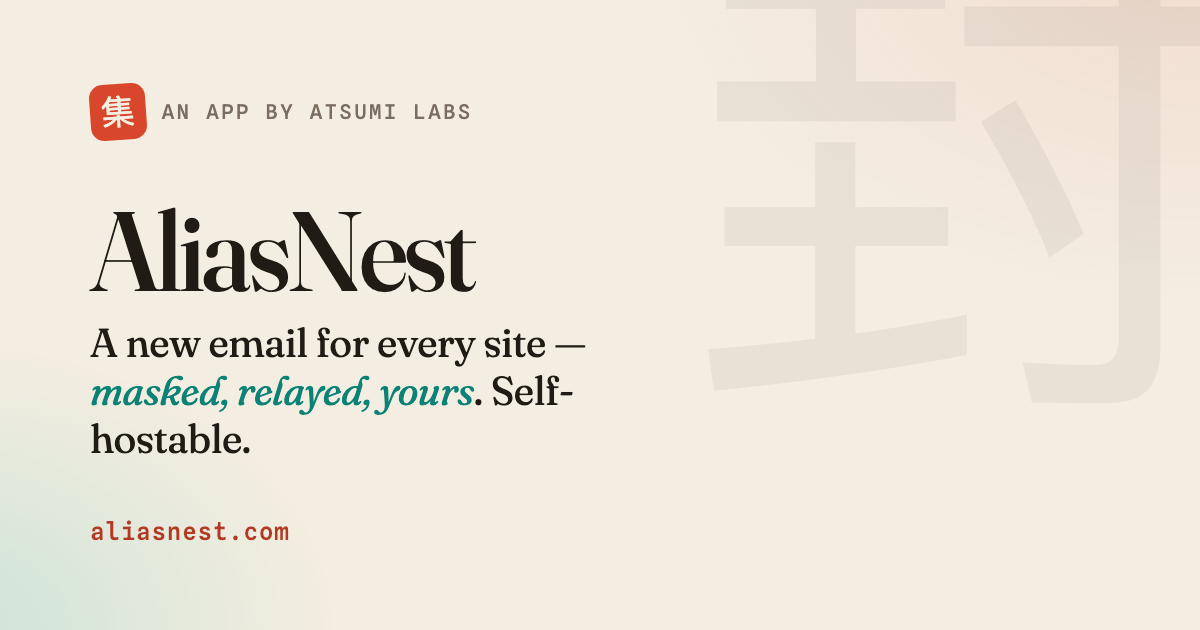
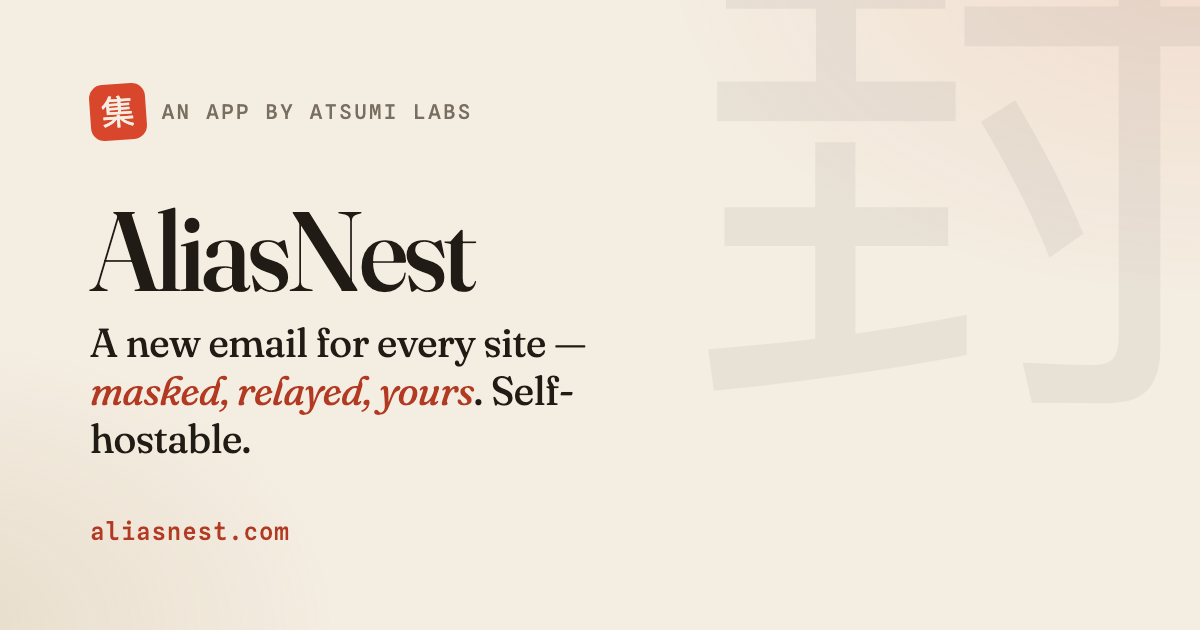
AliasNest: use the real interface mockup + retheme to washi/vermillion
Swap fabricated dark dashboard for the authentic inbox preview from the
AliasNest brand proposal (shown as a clean screenshot card — it carries its
own browser chrome). Retheme accent teal->vermillion, 'how it works' band to
warm sumi, refreshed OG image; step 3 reflects the in-app color-tagged inbox.

Changed region(s): [[0.0617, 0.6032, 0.4008, 0.6635]]

diff --git a/aliasnest.css b/aliasnest.css
@@ -1,8 +1,8 @@
 /* ============================================================
    AliasNest showcase — access-controlled web app (static preview).
-   Atsumi paper theme (inherits styles.css vars); teal accent.
+   Atsumi paper theme; vermillion/washi accent to match AliasNest's
+   own brand. The framed screenshot already carries its browser chrome.
    ============================================================ */
-:root { --an: #0c8276; --an-bright: #14b8a6; --an-soft: rgba(20, 184, 166, 0.12); }
 
 /* ── hero (centered) ── */
 .an-hero { max-width: 1080px; margin: 0 auto; text-align: center; padding: clamp(3rem, 9vh, 6rem) clamp(1.2rem, 5vw, 3rem) clamp(1.5rem, 4vh, 2.5rem); }
@@ -10,7 +10,7 @@
 .an-crumb:hover { color: var(--shu-deep); border-color: var(--shu-deep); }
 .an-hero h1 { font-family: var(--serif); font-weight: 500; font-size: clamp(2.6rem, 7vw, 5rem); line-height: 1; letter-spacing: -0.03em; margin: 0.6rem 0 0.8rem; }
 .an-tagline { font-family: var(--serif); font-weight: 400; font-size: clamp(1.3rem, 2.6vw, 1.9rem); line-height: 1.25; letter-spacing: -0.01em; color: var(--ink); max-width: 25ch; margin: 0 auto 1.1rem; }
-.an-accent { color: var(--an); font-style: italic; }
+.an-accent { color: var(--shu); font-style: italic; }
 .an-lede { color: var(--ink-2); font-size: clamp(1rem, 1.5vw, 1.12rem); max-width: 58ch; margin: 0 auto; }
 .an-cta { margin: 1.8rem 0 0.4rem; display: flex; flex-wrap: wrap; justify-content: center; align-items: center; gap: 0.9rem; }
 .badge-beta {
@@ -20,47 +20,41 @@
 .badge-beta::before { content: ""; width: 8px; height: 8px; border-radius: 50%; background: var(--shu); }
 .an-hero-chips { justify-content: center; margin: 1.4rem auto 0; }
 
-/* ── browser window frame (static — no live embed) ── */
-.an-browser-wrap { position: relative; max-width: 1040px; margin: 0 auto; padding: 0 clamp(1.2rem, 5vw, 3rem); }
-.an-glow { position: absolute; z-index: 0; left: 50%; top: 30%; transform: translateX(-50%); width: 70%; height: 60%; background: radial-gradient(closest-side, rgba(20,184,166,0.20), transparent 70%); filter: blur(28px); pointer-events: none; }
-.an-browser {
-  position: relative; z-index: 1; border-radius: 14px; overflow: hidden; border: 1px solid var(--line);
-  background: #0a0f12; box-shadow: 0 40px 90px -38px rgba(33,27,22,0.55), 0 10px 26px -18px rgba(33,27,22,0.4);
-  transform: translateZ(0); isolation: isolate; transition: transform 0.4s cubic-bezier(.2,.7,.3,1), box-shadow 0.4s ease;
+/* ── framed screenshot (static; the image carries its own browser chrome) ── */
+.an-shot-wrap { position: relative; max-width: 1040px; margin: 0 auto; padding: 0 clamp(1.2rem, 5vw, 3rem); }
+.an-glow { position: absolute; z-index: 0; left: 50%; top: 28%; transform: translateX(-50%); width: 72%; height: 60%; background: radial-gradient(closest-side, rgba(216,71,43,0.14), transparent 70%); filter: blur(30px); pointer-events: none; }
+.an-shot {
+  position: relative; z-index: 1; border-radius: 16px; overflow: hidden; border: 1px solid var(--line);
+  box-shadow: 0 40px 90px -40px rgba(33,27,22,0.5), 0 10px 26px -18px rgba(33,27,22,0.35);
+  transition: transform 0.4s cubic-bezier(.2,.7,.3,1), box-shadow 0.4s ease;
 }
-.an-browser:hover { transform: translateY(-4px); box-shadow: 0 50px 100px -38px rgba(33,27,22,0.6); }
-.an-bar { height: 44px; display: flex; align-items: center; gap: 12px; padding: 0 16px; background: #070b0d; border-bottom: 1px solid rgba(230,240,238,0.08); }
-.an-dots { display: flex; gap: 8px; }
-.an-dots i { width: 12px; height: 12px; border-radius: 50%; display: block; }
-.an-dots i:nth-child(1) { background: #ff5f57; } .an-dots i:nth-child(2) { background: #febc2e; } .an-dots i:nth-child(3) { background: #28c840; }
-.an-addr { flex: 1; max-width: 440px; margin: 0 auto; text-align: center; background: rgba(230,240,238,0.06); border-radius: 7px; padding: 6px 14px; font-family: var(--mono); font-size: 0.78rem; color: #8fb1ab; }
-.an-screen { position: relative; aspect-ratio: 16 / 10; background: #0a0f12; overflow: hidden; }
-.an-poster { width: 100%; height: 100%; object-fit: cover; object-position: top center; display: block; }
+.an-shot:hover { transform: translateY(-4px); box-shadow: 0 52px 100px -40px rgba(33,27,22,0.55); }
+.an-poster { display: block; width: 100%; height: auto; }
 .lock-pill {
-  position: absolute; top: 12px; right: 12px; z-index: 4; display: inline-flex; align-items: center; gap: 0.4rem;
+  position: absolute; top: 16px; right: 16px; z-index: 4; display: inline-flex; align-items: center; gap: 0.4rem;
   font-family: var(--mono); font-size: 0.62rem; letter-spacing: 0.1em; text-transform: uppercase;
-  color: #cfe6e1; background: rgba(10,15,18,0.6); backdrop-filter: blur(6px); border: 1px solid rgba(255,255,255,0.16); border-radius: 999px; padding: 0.25rem 0.6rem;
+  color: var(--ink-2); background: rgba(244,237,225,0.82); backdrop-filter: blur(6px); border: 1px solid var(--line); border-radius: 999px; padding: 0.28rem 0.62rem;
 }
 .an-poster-cap { text-align: center; font-family: var(--mono); font-size: 0.74rem; color: var(--ink-3); margin-top: 0.9rem; }
 
-/* ── how it works (dark teal band) ── */
+/* ── how it works (dark sumi band, vermillion accents) ── */
 .an-how { max-width: var(--maxw); margin: clamp(2.5rem, 7vh, 5rem) auto; padding: 0 clamp(1.2rem, 5vw, 3rem); }
 .an-how-inner {
   position: relative; overflow: hidden;
-  background: radial-gradient(120% 120% at 0% 0%, rgba(20,184,166,0.22), transparent 55%), radial-gradient(90% 90% at 100% 100%, rgba(216,71,43,0.12), transparent 60%), #0a0f12;
-  color: #e6f0ee; border-radius: 26px; padding: clamp(2rem, 5vw, 3.4rem); box-shadow: 0 30px 70px -34px rgba(10,15,18,0.7);
+  background: radial-gradient(120% 120% at 0% 0%, rgba(216,71,43,0.20), transparent 55%), radial-gradient(90% 90% at 100% 100%, rgba(150,120,70,0.14), transparent 60%), #1b1613;
+  color: #f1e9dd; border-radius: 26px; padding: clamp(2rem, 5vw, 3.4rem); box-shadow: 0 30px 70px -34px rgba(27,22,19,0.7);
 }
-.an-how-eyebrow { font-family: var(--mono); font-size: 0.78rem; letter-spacing: 0.16em; text-transform: uppercase; color: #5ed6c7; }
+.an-how-eyebrow { font-family: var(--mono); font-size: 0.78rem; letter-spacing: 0.16em; text-transform: uppercase; color: #ff9a7a; }
 .an-how h2 { font-family: var(--serif); font-weight: 500; color: #fff; font-size: clamp(1.8rem, 4vw, 2.7rem); line-height: 1.04; letter-spacing: -0.02em; margin: 0.5rem 0 2rem; }
 .an-steps { display: grid; grid-template-columns: repeat(4, 1fr); gap: 1.4rem; }
-.an-step .n { display: inline-grid; place-items: center; width: 2rem; height: 2rem; border-radius: 8px; background: var(--an-soft); color: #5ed6c7; font-family: var(--mono); font-size: 0.85rem; margin-bottom: 0.7rem; }
+.an-step .n { display: inline-grid; place-items: center; width: 2rem; height: 2rem; border-radius: 8px; background: rgba(216,71,43,0.18); color: #ff9a7a; font-family: var(--mono); font-size: 0.85rem; margin-bottom: 0.7rem; }
 .an-step h3 { font-family: var(--serif); font-weight: 600; color: #fff; font-size: 1.12rem; margin-bottom: 0.25rem; }
-.an-step p { color: rgba(230,240,238,0.68); font-size: 0.9rem; }
+.an-step p { color: rgba(241,233,221,0.68); font-size: 0.9rem; }
 
 /* ── on-prem callout ── */
 .an-onprem { max-width: var(--maxw); margin: 0 auto; padding: clamp(1rem, 3vh, 2rem) clamp(1.2rem, 5vw, 3rem); }
-.an-onprem-inner { display: grid; grid-template-columns: auto 1fr; gap: 1.4rem; align-items: center; background: var(--paper-2); border: 1px solid var(--line); border-left: 3px solid var(--an); border-radius: 16px; padding: 1.6rem 1.8rem; }
-.an-onprem .mark { font-size: 1.8rem; color: var(--an); }
+.an-onprem-inner { display: grid; grid-template-columns: auto 1fr; gap: 1.4rem; align-items: center; background: var(--paper-2); border: 1px solid var(--line); border-left: 3px solid var(--shu); border-radius: 16px; padding: 1.6rem 1.8rem; }
+.an-onprem .mark { font-size: 1.9rem; color: var(--shu-deep); }
 .an-onprem h3 { font-family: var(--serif); font-weight: 600; font-size: 1.25rem; margin-bottom: 0.25rem; }
 .an-onprem p { color: var(--ink-2); font-size: 0.96rem; max-width: 70ch; }
 

diff --git a/aliasnest.html b/aliasnest.html
@@ -84,21 +84,15 @@
       </ul>
     </section>
 
-    <!-- ───────────── browser-framed static preview ───────────── -->
-    <div class="an-browser-wrap reveal" style="--d:240ms">
+    <!-- ───────────── static preview (image carries its own browser chrome) ───────────── -->
+    <div class="an-shot-wrap reveal" style="--d:240ms">
       <div class="an-glow" aria-hidden="true"></div>
-      <div class="an-browser">
-        <div class="an-bar" aria-hidden="true">
-          <div class="an-dots"><i></i><i></i><i></i></div>
-          <div class="an-addr">aliasnest.com</div>
-        </div>
-        <div class="an-screen">
-          <img class="an-poster" src="assets/aliasnest-screen.png"
-               alt="AliasNest dashboard — a list of email aliases, where each forwards, and how many messages each has relayed" />
-          <span class="lock-pill" aria-hidden="true">🔒 access controlled</span>
-        </div>
+      <div class="an-shot">
+        <img class="an-poster" src="assets/aliasnest-screen.png"
+             alt="AliasNest inbox — a sidebar of email aliases (shopping, signups, finance, travel, family), each color-coded, and a list of messages tagged by the alias that received them" />
+        <span class="lock-pill" aria-hidden="true">🔒 access controlled</span>
       </div>
-      <p class="an-poster-cap">Static preview — the live dashboard is behind sign-in.</p>
+      <p class="an-poster-cap">Static preview — the live inbox is behind sign-in.</p>
     </div>
 
     <!-- ───────────── how it works ───────────── -->
@@ -119,8 +113,8 @@
           </div>
           <div class="an-step">
             <span class="n">03</span>
-            <h3>Mail relays to you</h3>
-            <p>AliasNest receives it and forwards to your real inbox — your address stays hidden.</p>
+            <h3>Read it, color-tagged</h3>
+            <p>Mail lands in one calm inbox, tagged by the alias that received it — or relays on to your real address.</p>
           </div>
           <div class="an-step">
             <span class="n">04</span>